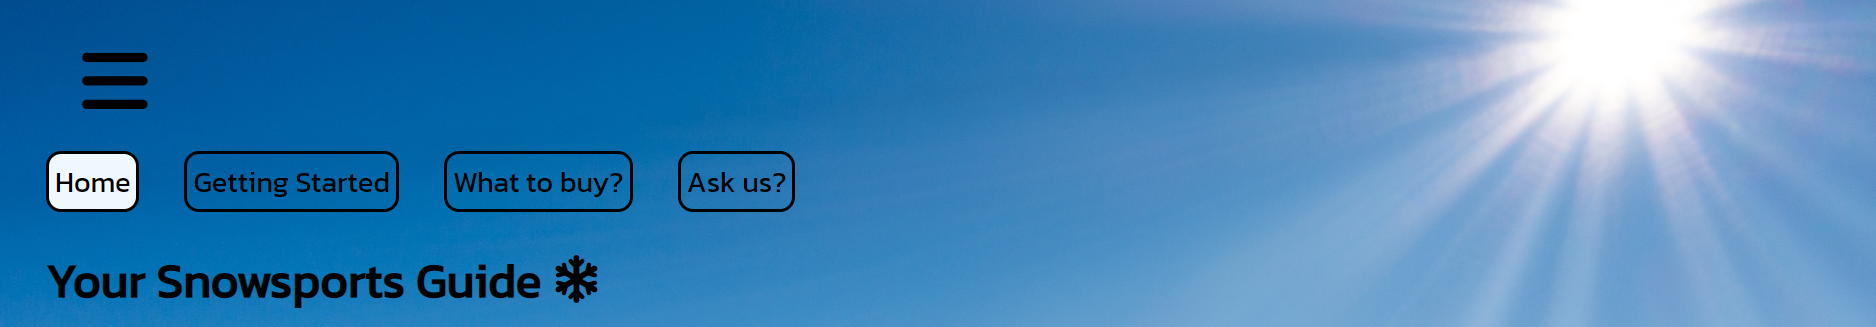
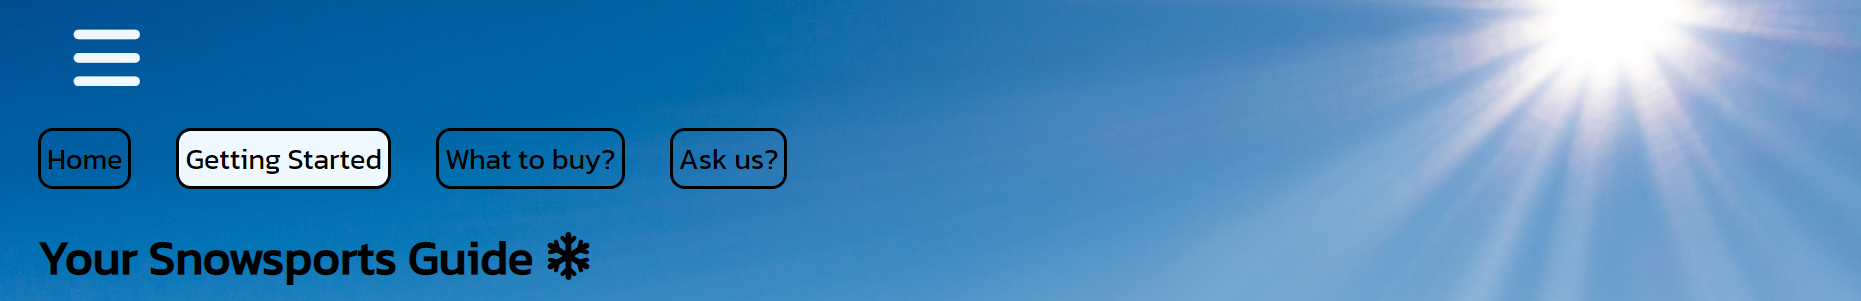
add style change to open nav bar, add nav bar description in readme

diff --git a/assets/css/style.css b/assets/css/style.css
@@ -50,6 +50,11 @@ body{
     transform:none;
   }
 
+  .nav-menu[open] > summary{
+    color:aliceblue;
+    transform:none;
+  }
+
 /*style for the list elemets containing the <a> that will be used to move through the pages*/
 .nav-bar li{
     list-style-type:none;  

diff --git a/README.md b/README.md
@@ -4,11 +4,12 @@ placeholder image
 "Your Snowsports Guide" was designed to provide valuable and useful infomation for people that are looking to get themselves, friends or family into the world of snowsports. specifically Skiing and Snowboading. Ideally any user will come to the end of the website with their questions answered, their doubts disuaded and a good base of knowledge that will help them on their journey into the world of snowsports.
 
 ## contents:
-1.
-2.
-3.
+1. [User experiance](##User-experiance:)
+   - [Mockup desings](###Simple-Initial-design-plans:)
+2. [Features](##features:)
+   - [Navigation bar](####navigation-bar)
 ___
-## User experiance
+## User experiance:
 ### What I wanted to achieve:
 
 1. Each user should come away from the website having learned something new about the world of snowsports.
@@ -22,19 +23,25 @@ ___
 5. The style of the website is consistant throughout all pages.
 
 6. Responsive design allows the site to be easily viewed across multiple devices.
-
+___
+### Simple initial design plans:
 Page | Mockup example |
 --- | --- |
-Index | ![Desktop mockup of Home page](assets/mockup-images/page1-mockup.png) |
-Getting started | ![Desktop mock up of page 2 "getting strated"](assets/mockup-images/page2-mockup.png) |
-What to buy? | ![Desktop mock up of page 3 "What to buy?"](assets/mockup-images/page3-mockup.png) |
-Ask us | ![Desktop mock up of page 4 "Ask us"](assets/mockup-images/page4-mockup.png) |
-Mobile example | ![Mobile mock up of the home page and page 4 "Ask us"](assets/mockup-images/mobile-mockup.png) |
+Index | ![desktop mockup of Home page](assets/mockup-images/page1-mockup.png) |
+Getting started | ![desktop mock up of page 2 "getting strated"](assets/mockup-images/page2-mockup.png) |
+What to buy? | ![desktop mock up of page 3 "What to buy?"](assets/mockup-images/page3-mockup.png) |
+Ask us | ![desktop mock up of page 4 "Ask us"](assets/mockup-images/page4-mockup.png) |
+Mobile example | ![mobile mock up of the home page and page 4 "Ask us"](assets/mockup-images/mobile-mockup.png) |
 ___
 ## features: 
 ### And how these help achieve the above goals:
-1. Navigation bar 
-   - 
+#### Navigation bar 
+   - The simple clapsable navigation Icon provides the user a simple and effective way to navigate to the different pages of the site.
+   - The styling is consistant throughout all pages and shows clearly which page the user is currently in as well as the repsonisve colour change that clearly highlights user interaction.
+   - The main header/logo of the page is also a clickable link as is common place in many websites across the web.
+![shut navigation bar image](assets/readme-images/shut-navbar.png)
+![open navigation bar image](assets/readme-images/open-navbar.png)
+
 2. striking back ground image
 3. clear container of information
   * Opening paragraph in each page
